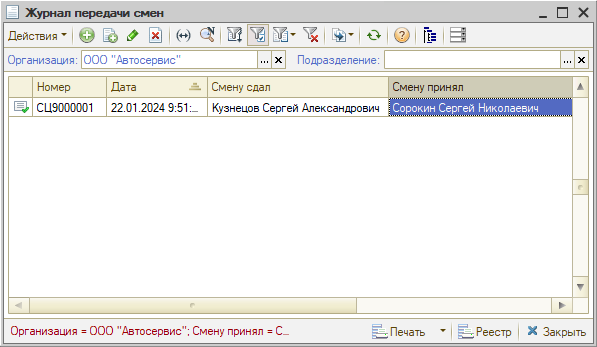
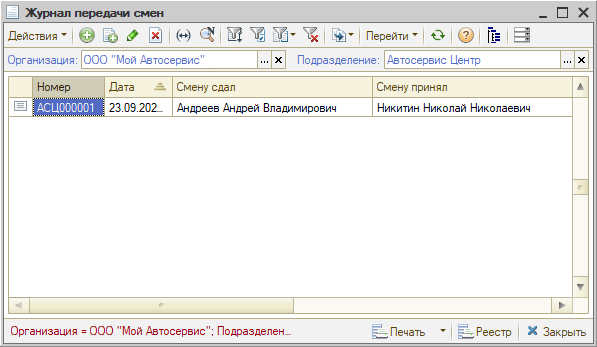
Передача смен (черновик в Katya): описание и скриншоты из совета «Как мастеру-консультанту видеть сделки сменщика» — поле «Период передачи смены» с примерами, заполнение через «Процессы»/«Заказ-наряды», вкладка «Сделки», новый журнал; пометки: переснять 2 скриншота старой формы (Катя, 28.09.2026).

diff --git a/articles/5S AUTO/Автосервис/Передача смен/peredacha-smen.md b/articles/5S AUTO/Автосервис/Передача смен/peredacha-smen.md
@@ -1,6 +1,6 @@
 # Передача смен
 
-<table><tr><td><b>Время чтения:</b> 10 мин.</td><td><b>Обновлено:</b> 22.01.2024</td></tr></table>
+<table><tr><td><b>Время чтения:</b> 10 мин.</td><td><b>Обновлено:</b> 28.09.2026</td></tr></table>
 
 <sub>Источник: https://www.5systems.ru/help/peredacha-smen</sub>
 
@@ -29,21 +29,27 @@
 
 ### Заполнение журнала передачи смен
 
-Создайте новый элемент в журнале нажатием на кнопку «Добавить», в поле «Смену сдал» выберите мастера, передающего смену, в поле «Смену принял» — мастера, принимающего смену:
+Создайте новый элемент в журнале нажатием на кнопку «Добавить», в поле «Смену сдал» выберите мастера, передающего смену, в поле «Смену принял» — мастера, принимающего смену.
 
-![Создание журнала передачи смен](attachments/02-sozdanie-zhurnala.png)
+В поле «Период передачи смены, начиная с … по» укажите, на какой период сменщик принимает смену. Например: при графике 2/2 – с 25 по 26 сентября, на время отпуска – с 24 сентября по 22 октября, при работе в утреннюю и вечернюю смены – с 15:00 до 23:59 24 сентября (завтрашнего дня):
 
-С помощью кнопки «Заполнение» отметьте заказ-наряды или процессы, которые нужно передать и нажмите «Выбрать»:
+![Создание передачи смены – поля «Смену сдал», «Смену принял» и период передачи смены](attachments/02-sozdanie-peredachi-smeny.png)
 
-![Подбор Заказ-нарядов для передачи смены](attachments/03-podbor-zn-processov.png)
+Нажмите «Заполнение» и выберите «Процессы» – в списке будут открытые сделки мастера из поля «Смену сдал». Отметьте сделки, которые нужно передать, и нажмите «Выбрать». Так же через «Заполнение → Заказ-наряды» можно передать заказ-наряды:
+
+![Заполнение передачи смены – выбор сделок в «Процессах»](attachments/03-zapolnenie-processy.png)
 
 В списке выбора заказ-нарядов и процессов по умолчанию работает отбор по мастеру, указанному в поле «Смену сдал», и доступны для выбора только открытые заказ-наряды и процессы.
 
-Выбранные заказ-наряды и процессы отобразятся в передаче смены:
+Выбранные сделки и заказ-наряды отобразятся в передаче смены на вкладке «Сделки»:
+
+> *Комментарий: переснять скриншот ниже — старая форма передачи смены (нет поля «Период передачи смены», таблица без вкладки «Сделки»); нужна новая форма с выбранными сделками.*
 
 ![Заказ-наряды в передаче смены](attachments/04-processy-v-peresmene.png)
 
-По каждому отдельному процессу или документу можно указать примечание для мастера, принимающего смену, затем необходимо записать изменения:
+По каждому отдельному процессу или документу можно указать примечание для мастера, принимающего смену, затем необходимо записать изменения кнопкой «Записать» или «ОК»:
+
+> *Комментарий: переснять скриншот ниже — старая форма передачи смены; нужна новая форма с заполненными колонками «Создать задачу» и «Примечание» и кнопкой «ОК».*
 
 ![Сохранение передачи смены](attachments/05-sohranenie-peredachi.png)
 
